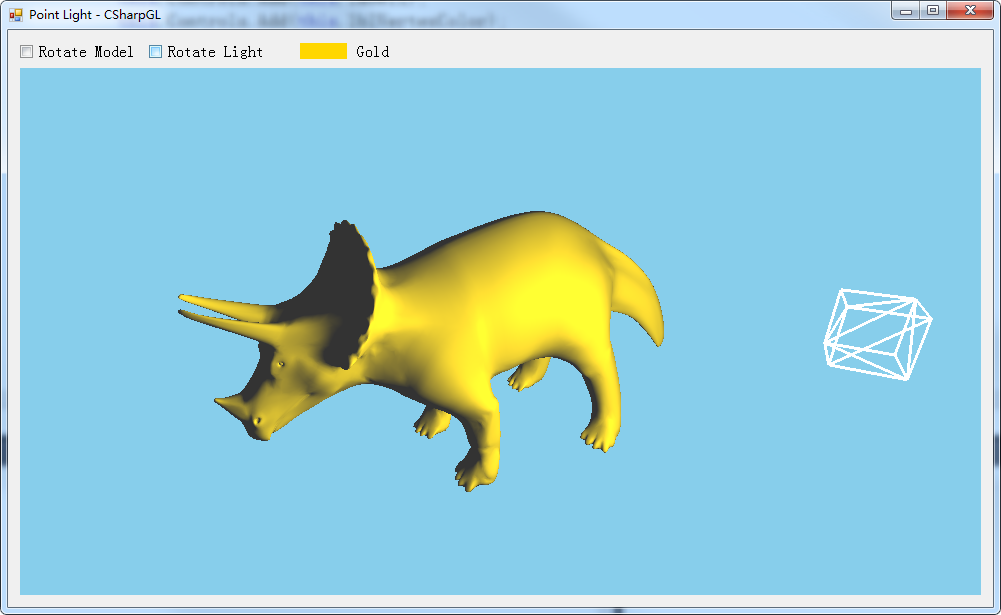
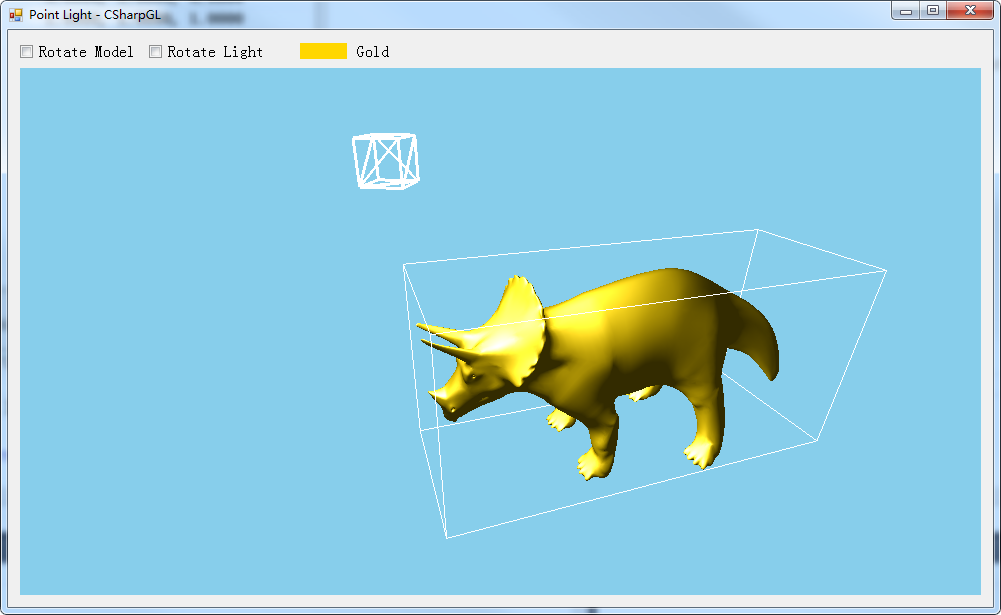
update

diff --git a/Demos/PointLight/PointLightNode.shaders.cs b/Demos/PointLight/PointLightNode.shaders.cs
@@ -31,6 +31,8 @@ void main(void)
 ";
         private const string pointLightFrag = @"#version 150 core
 
+uniform float shiness = 6;
+uniform float strength = 1;
 uniform vec3 ambientColor = vec3(0.2, 0.2, 0.2);
 uniform vec3 diffuseColor = vec3(1, 0.8431, 0);
 uniform vec3 lightPosition = vec3(0, 0, 0); // light's position in eye space.
@@ -45,13 +47,22 @@ out vec4 vFragColor;
 
 void main(void)
 {
+    vec3 normal = normalize(passNormal);
     vec3 L = lightPosition - passPosition;
-    float diffuse = max(0, dot(normalize(L), normalize(passNormal)));
+    float diffuse = max(0, dot(normalize(L), normal));
     float distance = length(L);
     float attenuationAmount = 1.0 / (constantAttenuation + linearAttenuation * distance + quadraticAttenuation * distance * distance);
 	diffuse *= attenuationAmount;
+
+    float specular = 0;
+    if (diffuse > 0)
+    {
+        vec3 halfVector = normalize(L + vec3(0, 0, 1));// vec3(0, 0, 1) is camera's direction.
+        specular = max(0, dot(halfVector, normal));
+        specular = pow(specular, shiness) * strength;
+    }
 	
-    vFragColor = vec4((ambientColor + diffuse) * diffuseColor, 1);
+    vFragColor = vec4((ambientColor + diffuse) * diffuseColor + specular, 1);
 }
 ";
 

diff --git a/Demos/PointLight/PointLightNode.cs b/Demos/PointLight/PointLightNode.cs
@@ -49,6 +49,7 @@ namespace PointLight
             var node = new PointLightNode(model, position, builder);
             node.light = light;
             node.ModelSize = size;
+            node.Children.Add(new LegacyBoundingBoxNode(size));
 
             node.Initialize();
 

diff --git a/Demos/SpotLight/SpotLightnode.cs b/Demos/SpotLight/SpotLightnode.cs
@@ -50,6 +50,7 @@ namespace SpotLight
             var node = new SpotLightNode(model, position, builder);
             node.light = light;
             node.ModelSize = size;
+            node.Children.Add(new LegacyBoundingBoxNode(size));
 
             node.Initialize();
 
